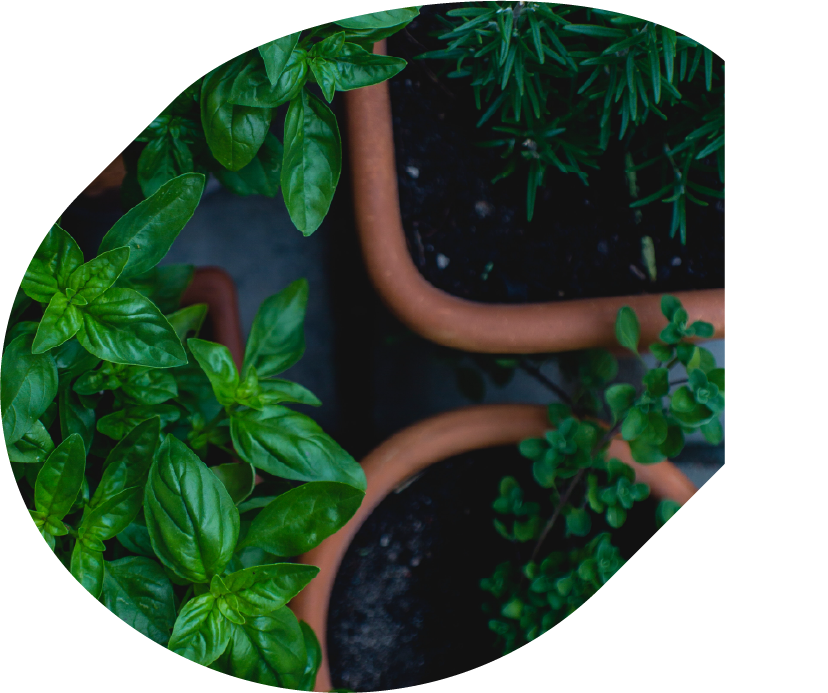
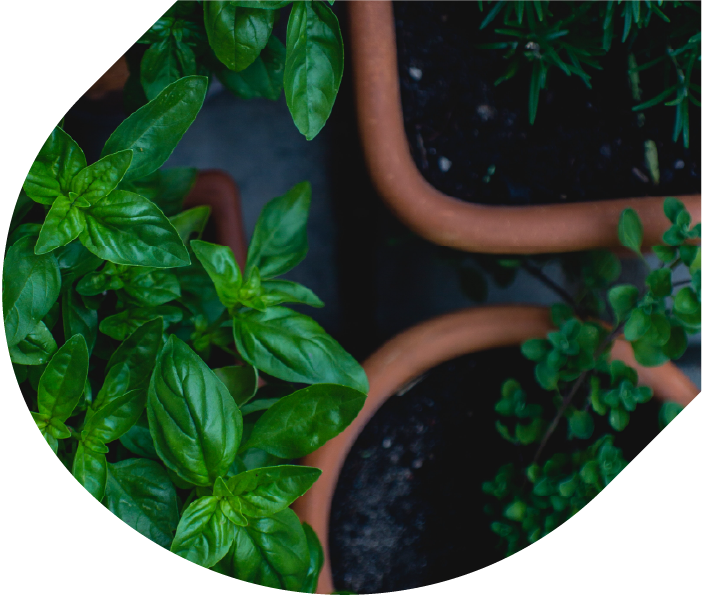
v0.5

diff --git a/src/app/views/about.tsx b/src/app/views/about.tsx
@@ -1,40 +1,44 @@
 import "../../styles/about.css";
 import Image from "next/image";
 import BackgroundImage from "../../assets/about-background.png";
+import Navbar from "../components/navbar";
 
 const About = () => {
   return (
-    <div className="about-container row">
-      <div className="column left-side-container">
-        <div className="text-container column gap-3">
-          <div className="row gap-3 title-container">
-            <div className="title-dot" />
-            <h1 className="title">NOSOTROS SOMOS</h1>
+    <>
+      <Navbar />
+      <div className="about-container row">
+        <div className="column left-side-container">
+          <div className="text-container column gap-3">
+            <div className="row gap-3 title-container">
+              <div className="title-dot" />
+              <h1 className="title">NOSOTROS SOMOS</h1>
+            </div>
+            <p className="paragraph">
+              La única organización que puede ofrecerte un estilo de vida
+              sustentable mediante la horticultura urbana; donde elegimos junto
+              a diseñadores y expertos de la agricultura todo lo que necesitas
+              para comenzar.
+            </p>
+            <p className="paragraph">
+              Una comunidad de individuos apasionados por la conciencia
+              ecológica y dedicados a redefinir las relaciones entre los humanos
+              y la naturaleza. Por ello cada producto comprado apoyará
+              regeneración de áreas verdes en el país y todas las acciones
+              buscan ser carbono neutral.
+            </p>
           </div>
-          <p className="paragraph">
-            La única organización que puede ofrecerte un estilo de vida
-            sustentable mediante la horticultura urbana; donde elegimos junto a
-            diseñadores y expertos de la agricultura todo lo que necesitas para
-            comenzar.
-          </p>
-          <p className="paragraph">
-            Una comunidad de individuos apasionados por la conciencia ecológica
-            y dedicados a redefinir las relaciones entre los humanos y la
-            naturaleza. Por ello cada producto comprado apoyará regeneración de
-            áreas verdes en el país y todas las acciones buscan ser carbono
-            neutral.
-          </p>
+          <div className="manifest-container button">
+            <span className="manifest-title">MANIFIESTO</span>
+            <div className="manifest-big-yellow-line" />
+            <div className="manifest-small-yellow-line" />
+          </div>
         </div>
-        <div className="manifest-container button">
-          <span className="manifest-title">MANIFIESTO</span>
-          <div className="manifest-big-yellow-line" />
-          <div className="manifest-small-yellow-line" />
+        <div className="about-image-container">
+          <Image src={BackgroundImage} width={900} alt="background" />
         </div>
       </div>
-      <div className="about-image-container">
-        <Image src={BackgroundImage} width={800} alt="background" />
-      </div>
-    </div>
+    </>
   );
 };
 

diff --git a/src/app/views/contact.tsx b/src/app/views/contact.tsx
@@ -8,49 +8,53 @@ import {
   STORE_LINK,
   WHATSAPP_LINK,
 } from "../constants";
+import Navbar from "../components/navbar";
 
 const Contact = () => {
   return (
-    <div className="contact-container column">
-      <div className="top-container">
-        <div className="column gap-3">
-          <div className="text">
-            ¿Ya te convenciste? <br />
-            ¡Sé un horticultor urbano hoy!
-          </div>
-          <a href={STORE_LINK} target="_blank">
-            <div className="store-button">
-              COMPRAR <br />
-              MI KIT
+    <>
+      <Navbar />
+      <div className="contact-container column">
+        <div className="top-container">
+          <div className="column gap-3">
+            <div className="text">
+              ¿Ya te convenciste? <br />
+              ¡Sé un horticultor urbano hoy!
             </div>
-          </a>
+            <a href={STORE_LINK} target="_blank">
+              <div className="store-button button">
+                COMPRAR <br />
+                MI KIT
+              </div>
+            </a>
+          </div>
+        </div>
+        <div className="footer-container">
+          <div className="row gap-3">
+            <Image src={YellowLogo} width={100} alt="yellow-logo" />
+            <div className="footer-text">
+              Escríbenos <br />
+              contacto@tukun.cl
+            </div>
+            <a href={INSTAGRAM_LINK} target="_blank">
+              <div className="social-circle button">
+                <FaInstagram size={30} />
+              </div>
+            </a>
+            <a href={WHATSAPP_LINK} target="_blank">
+              <div className="social-circle button">
+                <FaWhatsapp size={30} />
+              </div>
+            </a>
+            <a href={FACEBOOK_LINK} target="_blank">
+              <div className="social-circle button">
+                <FaFacebook size={30} />
+              </div>
+            </a>
+          </div>
         </div>
       </div>
-      <div className="footer-container">
-        <div className="row gap-3">
-          <Image src={YellowLogo} width={100} alt="yellow-logo" />
-          <div className="footer-text">
-            Escríbenos <br />
-            contacto@tukun.cl
-          </div>
-          <a href={INSTAGRAM_LINK} target="_blank">
-            <div className="social-circle button">
-              <FaInstagram size={30} />
-            </div>
-          </a>
-          <a href={WHATSAPP_LINK} target="_blank">
-            <div className="social-circle button">
-              <FaWhatsapp size={30} />
-            </div>
-          </a>
-          <a href={FACEBOOK_LINK} target="_blank">
-            <div className="social-circle button">
-              <FaFacebook size={30} />
-            </div>
-          </a>
-        </div>
-      </div>
-    </div>
+    </>
   );
 };
 

diff --git a/src/app/views/home.tsx b/src/app/views/home.tsx
@@ -1,29 +1,37 @@
-import "../../styles/index.css";
+import "../../styles/home.css";
 import Navbar from "../components/navbar";
 import Lettuce from "../../assets/home-lettuce.png";
 import Image from "next/image";
+import WhiteLogo from "../../assets/logo-tukun-white.png";
+
+const logoSize = 220;
 
 const Home = () => {
   return (
-    <div className="home-container column">
+    <>
       <Navbar />
-      <div className="mainframe column">
-        <div className="image-container">
-          <Image src={Lettuce} width={900} alt="lettuce" />
-        </div>
-        <div className="title-container column gap-1">
-          <h1 className="title">
-            IMAGINAMOS UN OASIS VERDE EN CADA CASA, NO IMPORTA EL TAMAÑO ...
-          </h1>
-          <p className="subtitle">
-            Donde puedas cultivar tu propio huerto urbano y se transforme en una
-            huerta urbana única. Simplemente debes regarlas y darle amor,
-            nosotros hacemos el resto. ¡Únete y selecciona el kit que más te
-            llame!
-          </p>
+      <div className="home-container column">
+        <div className="mainframe column">
+          <div className="home-background-container">
+            <Image src={Lettuce} width={900} alt="lettuce" />
+          </div>
+          <div className="home-logo-container">
+            <Image src={WhiteLogo} width={logoSize} alt="lettuce" />
+          </div>
+          <div className="title-container column gap-1">
+            <h1 className="title">
+              IMAGINAMOS UN OASIS VERDE EN CADA CASA, NO IMPORTA EL TAMAÑO ...
+            </h1>
+            <p className="subtitle">
+              Donde puedas cultivar tu propio huerto urbano y se transforme en
+              una huerta urbana única. Simplemente debes regarlas y darle amor,
+              nosotros hacemos el resto. ¡Únete y selecciona el kit que más te
+              llame!
+            </p>
+          </div>
         </div>
       </div>
-    </div>
+    </>
   );
 };
 

diff --git a/src/app/components/navbar.tsx b/src/app/components/navbar.tsx
@@ -2,21 +2,21 @@ import Link from "next/link";
 import "../../styles/navbar.css";
 import Image from "next/image";
 import WhiteLogo from "../../assets/logo-white.png";
-import { useState } from "react";
 import { STORE_LINK } from "../constants";
 
 const logoSize = 150;
 
-const Navbar = () => {
-  const [showNavbar, setShowNavbar] = useState(false);
-  return (
+const Navbar = () => (
+  <div className="navbar-logic-container">
     <div className="navbar-container column gap-1">
-      <Image
-        src={WhiteLogo}
-        width={logoSize}
-        height={logoSize}
-        alt="white-logo"
-      />
+      <Link href="/" className="button">
+        <Image
+          src={WhiteLogo}
+          width={logoSize}
+          height={logoSize}
+          alt="white-logo"
+        />
+      </Link>
       <Link href="/about" className="nav-button us button">
         <span>NOSOTROS</span>
       </Link>
@@ -32,7 +32,7 @@ const Navbar = () => {
         </div>
       </a>
     </div>
-  );
-};
+  </div>
+);
 
 export default Navbar;

diff --git a/src/styles/navbar.css b/src/styles/navbar.css
@@ -3,12 +3,14 @@
     background-color: var(--purple);
     padding: 3em 2em;
     padding-top: 4em;
-    position: absolute;
+    position: relative;
     top: 0;
-    left: 3em;
-    z-index: 10;
     border-radius: 0 0 5em 7em;
     align-items: center;
+    transition: translate 0.5s;
+    translate: 0 -100%;
+
+
 
     .row {
         align-items: center;
@@ -49,4 +51,20 @@
         background-color: var(--white-1);
     }
 
+}
+
+.navbar-logic-container {
+    padding: 0 3em;
+    width: 20%;
+    height: min-content;
+    position: absolute;
+    top: 0;
+    left: 0;
+    z-index: 10;
+}
+
+.navbar-logic-container:hover {
+    .navbar-container {
+        translate: 0;
+    }
 }

diff --git a/src/app/views/roadmap.tsx b/src/app/views/roadmap.tsx
@@ -2,6 +2,7 @@ import RoadmapFolder from "../components/roadmapFolder";
 import "../../styles/roadmap.css";
 import BackgroundImage from "../../assets/roadmap-background.png";
 import Image from "next/image";
+import Navbar from "../components/navbar";
 
 const ROADMAP_TEXT = [
   {
@@ -34,6 +35,7 @@ const ROADMAP_TEXT = [
 const Roadmap = () => {
   return (
     <>
+      <Navbar />
       <div className="roadmap-background-container">
         <Image src={BackgroundImage} layout="fill" alt="tomatoes" />
       </div>

diff --git a/src/app/components/roadmapFolder.tsx b/src/app/components/roadmapFolder.tsx
@@ -1,6 +1,12 @@
 import "../../styles/roadmap.css";
 
-const RoadmapFolder = ({ number, title, description }) => {
+type RoadmapFolderProps = {
+  number: number;
+  title: string;
+  description: string;
+};
+
+const RoadmapFolder = ({ number, title, description }: RoadmapFolderProps) => {
   return (
     <div className="roadmap-folder-container">
       <div className="folder-step">PASO {number}</div>

diff --git a/src/styles/about.css b/src/styles/about.css
@@ -12,6 +12,8 @@
     align-items: center;
     padding: 3em;
     justify-content: space-between;
+    z-index: 1;
+    background-color: var(--white-1);
 
     .text-container {
         justify-content: space-between;
@@ -81,5 +83,4 @@
     margin-bottom: 3em;
     position: absolute;
     right: 0em;
-    border-radius: 100em;
 }

diff --git a/src/styles/home.css b/src/styles/home.css
@@ -33,11 +33,17 @@
     }
 }
 
-.image-container {
+.home-background-container {
     margin-left: auto;
     position: absolute;
     right: 3em;
     align-self: center;
     display: flex;
     align-items: center;
+}
+
+.home-logo-container {
+    position: absolute;
+    top: 4em;
+    left: 4em;
 }

diff --git a/src/app/constants.ts b/src/app/constants.ts
@@ -6,4 +6,5 @@ const WHATSAPP_NUMBER = "+56982798487";
 
 export const WHATSAPP_LINK = `https://wa.me/${WHATSAPP_NUMBER}`;
 
-export const STORE_LINK = "https://www.google.com";
+export const STORE_LINK =
+  "https://www.youtube.com/watch?v=dQw4w9WgXcQ&ab_channel=RickAstley";

diff --git a/src/styles/global.css b/src/styles/global.css
@@ -54,7 +54,7 @@ body,
   overflow: hidden;
 }
 
-#__next>div {
+#__next>div:not(.navbar-logic-container) {
   height: 100%;
 }
 
